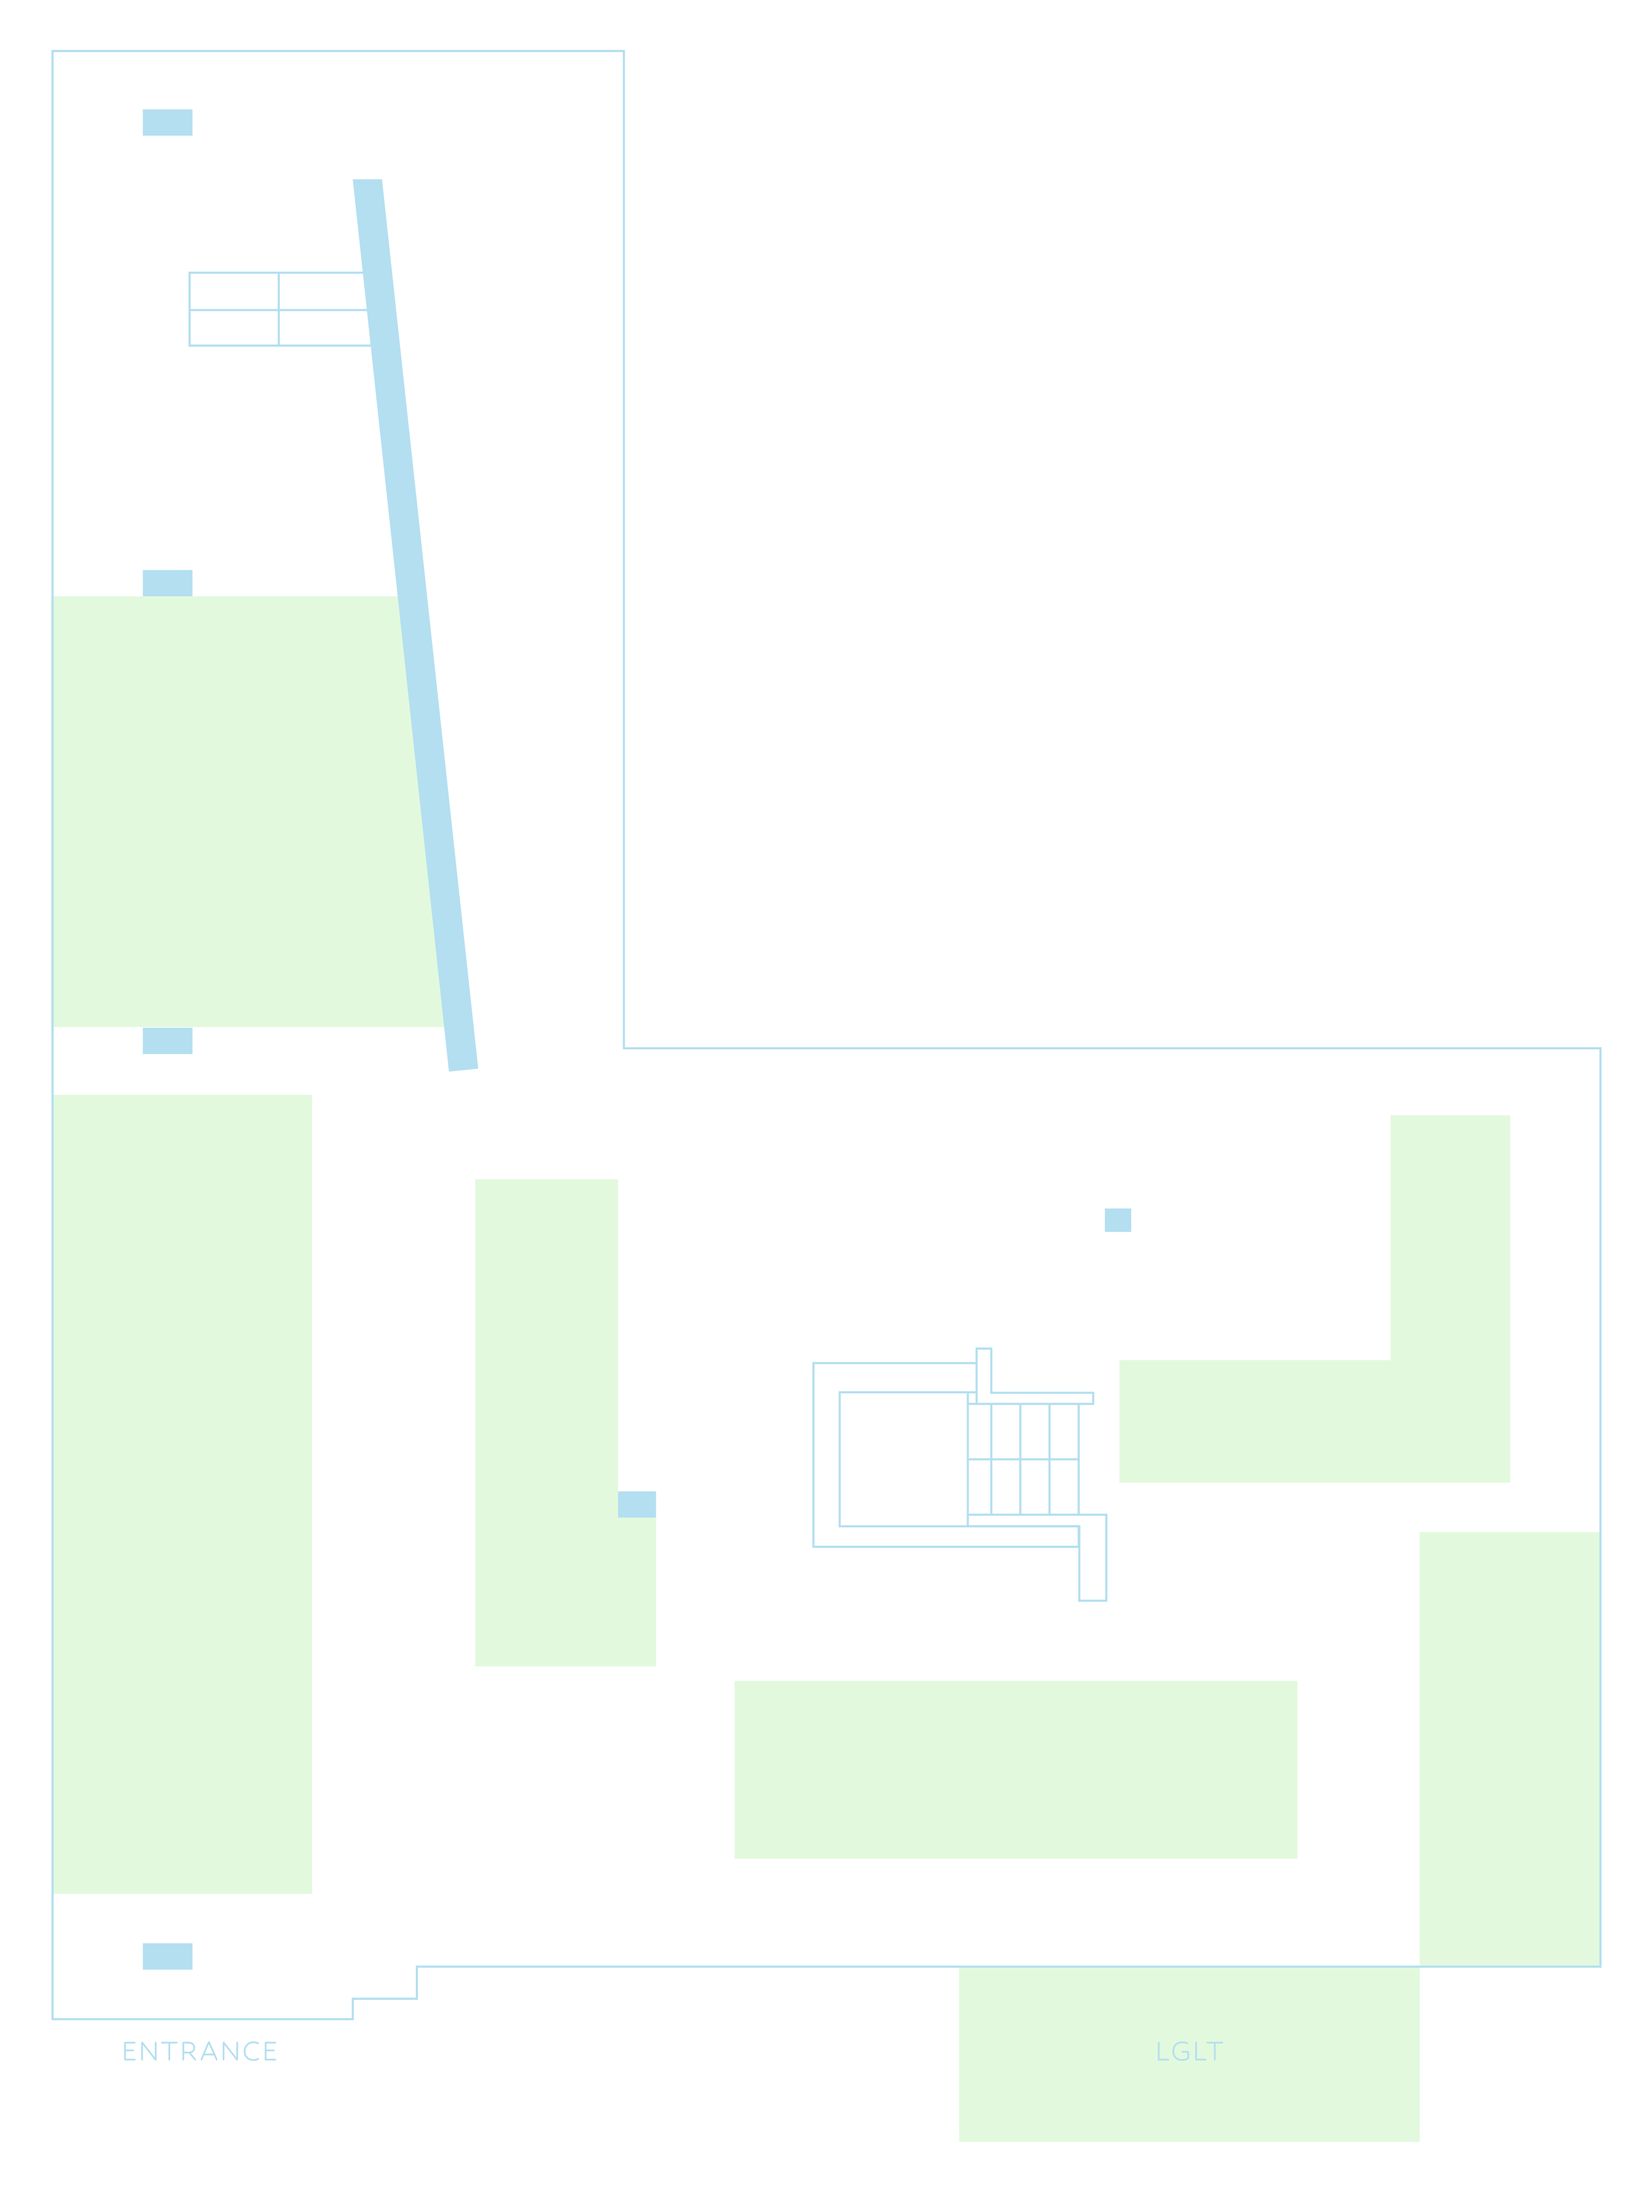
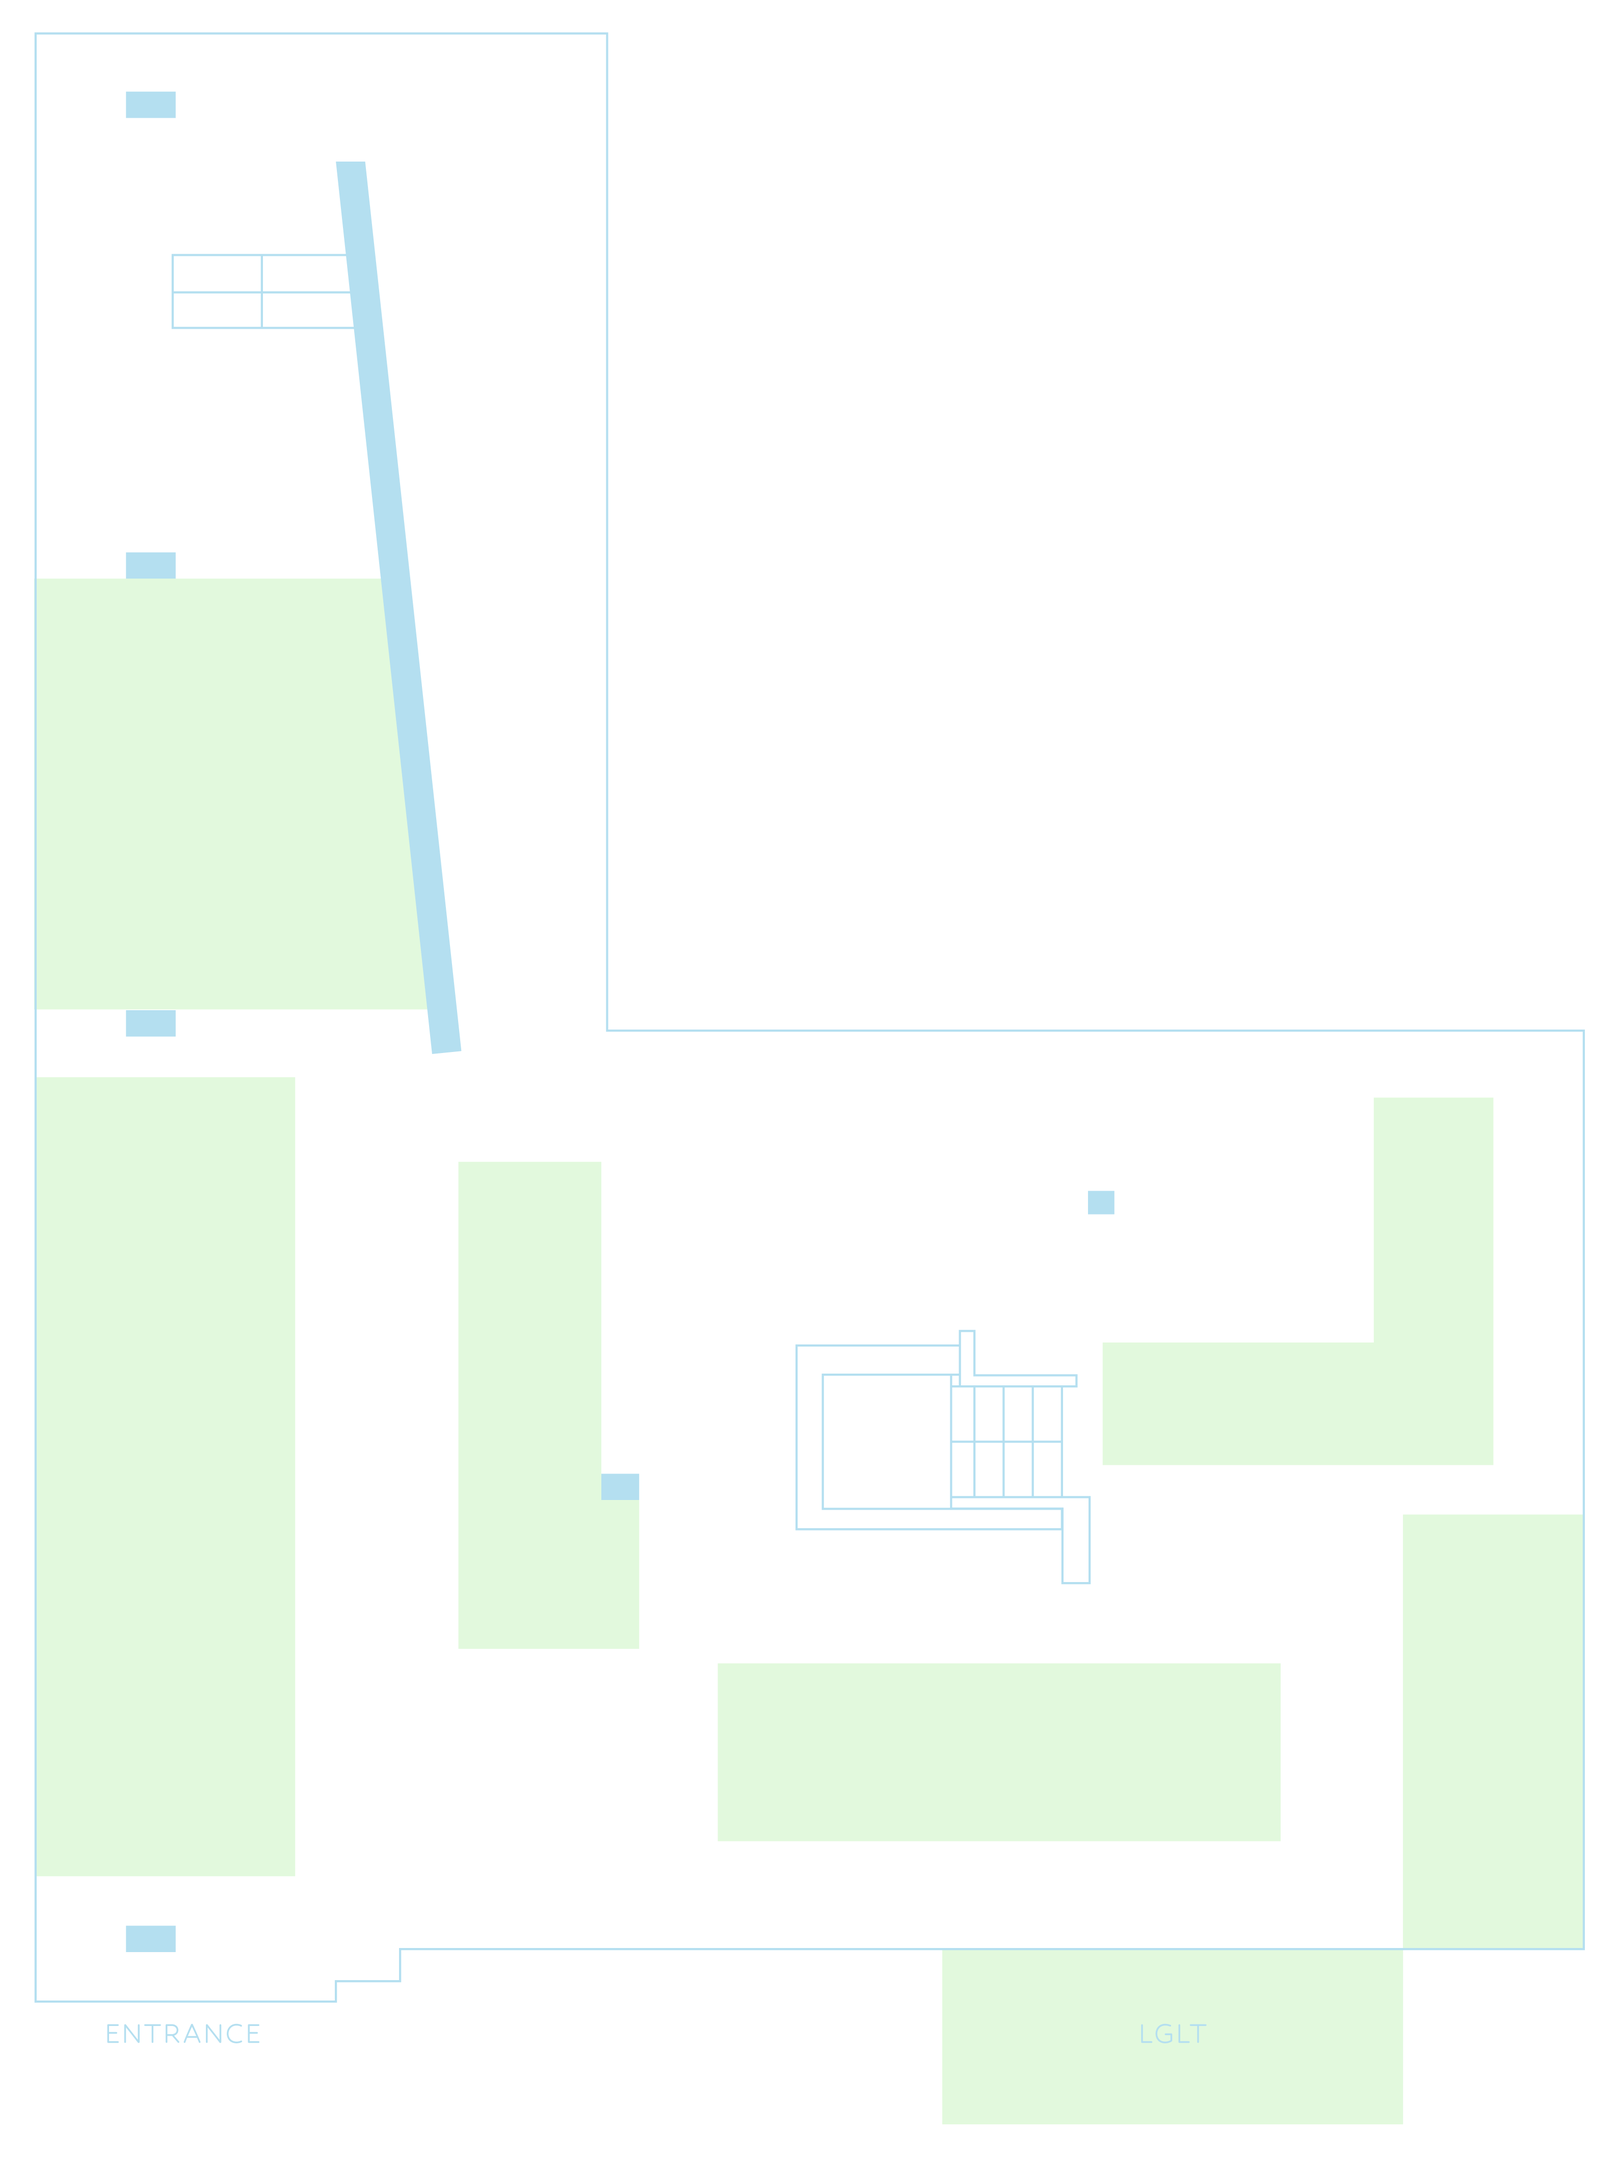
title overlay on map, copy updates, layout polish

diff --git a/public/plant.html b/public/plant.html
@@ -19,33 +19,40 @@
     }
     
     body {
-      margin: 0; padding-top: 10px;
+      margin: 0;
+      padding-top: 24px;
       background: var(--bg);
       color: var(--text);
       font-family: 'Hubballi', sans-serif;
     }
     
     h1 {
-      text-align: center;
       font-weight: normal;
-      padding: 20px 20px 6px; //第三个数标题到info的距离
-      margin: 0;
-      font-size: 20px;
+      margin: 0 0 6px 0;
+      font-size: 18px;
       letter-spacing: 1px;
     }
     
-    #info {
-      text-align: center;
-      padding: 0 20px 14px; //第三个数info到地图的距离
+#info {
       color: #777;
-      font-size: 14px;
+      font-size: 13px;
+      margin: 0;
+      line-height: 1.4;
     }
     
     #info strong {
       color: var(--aloe-green);
       font-weight: normal;
     }
-    
+
+    #header {
+      position: absolute;
+      top: 18%;
+      right: 2%;
+      width: 80%;
+      text-align: right;
+    }
+
     #map-wrapper {
       display: flex;
       justify-content: center;
@@ -69,8 +76,8 @@
     
     .marker {
       position: absolute;
-      width: 14px;
-      height: 14px;
+      width: 12px;
+      height: 12px;
       background: var(--aloe-green);
       border-radius: 50%;
       transform: translate(-50%, -50%);
@@ -80,12 +87,12 @@
     
     #submit {
       display: block;
-      margin: 24px auto 16px;
+      margin: 18px auto 16px;
       padding: 14px 22px;
       background: var(--aloe-green);
       color: white;
       border: none;
-      border-radius: 30px;//圆角
+      border-radius: 30px;/*圆角*/
       font-size: 16px;
       font-family: 'Hubballi', sans-serif;
       letter-spacing: 1px;
@@ -99,7 +106,7 @@
     #status {
       text-align: center;
       padding: 6px; 
-      margin-top: 14px; //地图底部到 planted! 的距离
+      margin-top: 14px; /*地图底部到 planted! 的距离*/
       color: var(--aloe-green);
       font-size: 14px;
       min-height: 20px;
@@ -107,10 +114,13 @@
   </style>
 </head>
 <body>
-  <h1>PLANT YOUR ALOE</h1>
-  <div id="info">Tap on the map where you want to plant <strong id="leafId">—</strong></div>
   <div id="map-wrapper">
-    <div id="map"></div>
+    <div id="map">
+      <div id="header">
+        <h1>PLANT YOUR ALOE</h1>
+        <div id="info">Pin on the map<br>where you placed your aloe <strong id="leafId">—</strong></div>
+      </div>
+    </div>
   </div>
   <div id="status"></div>
   <button id="submit" disabled>Plant Here</button>
@@ -153,7 +163,7 @@
           body: JSON.stringify({ id: leafId, x: chosenX, y: chosenY })
         });
         if (res.ok) {
-          status.textContent = "You've planted an aloe leaf here!"
+          status.textContent = "Planted! You can keep transplanting it wherever you like.";
         } else {
           status.textContent = 'error, try again';
           submitBtn.disabled = false;

diff --git a/public/index.html b/public/index.html
@@ -22,25 +22,30 @@
     }
     
     body {
-      margin: 0; padding-top: 34px;
+      margin: 0;
       background: var(--bg);
       color: var(--text);
       font-family: 'Hubballi', sans-serif;
       overflow: hidden;
     }
     
-    h1 {
-      text-align: center;
+  h1 {
+      position: absolute;
+      top: 25%;            /* 距离地图顶部多远 */
+      right: 22%;          /* 距离地图右边多远 */
+      width: 35%;         /* 标题区域占地图宽度的百分比 */
+      text-align: right;  /* 文字右对齐 / 也可以 left / center */
       font-weight: normal;
-      margin: 20px 0 2px;
       font-size: 24px;
       letter-spacing: 1px;
+      margin: 0;
+      line-height: 1.4;
     }
     
-    #map-wrapper {
+ #map-wrapper {
       position: relative;
       width: 100vw;
-      height: calc(100vh - 95px);
+      height: 100vh;
       display: flex;
       justify-content: center;
       align-items: center;
@@ -82,9 +87,10 @@
   </style>
 </head>
 <body>
-  <h1>Aloe — Live Map</h1>
   <div id="map-wrapper">
-    <div id="map"></div>
+    <div id="map">
+      <h1>Aloe — Live Map</h1>
+    </div>
   </div>
   
   <script>
